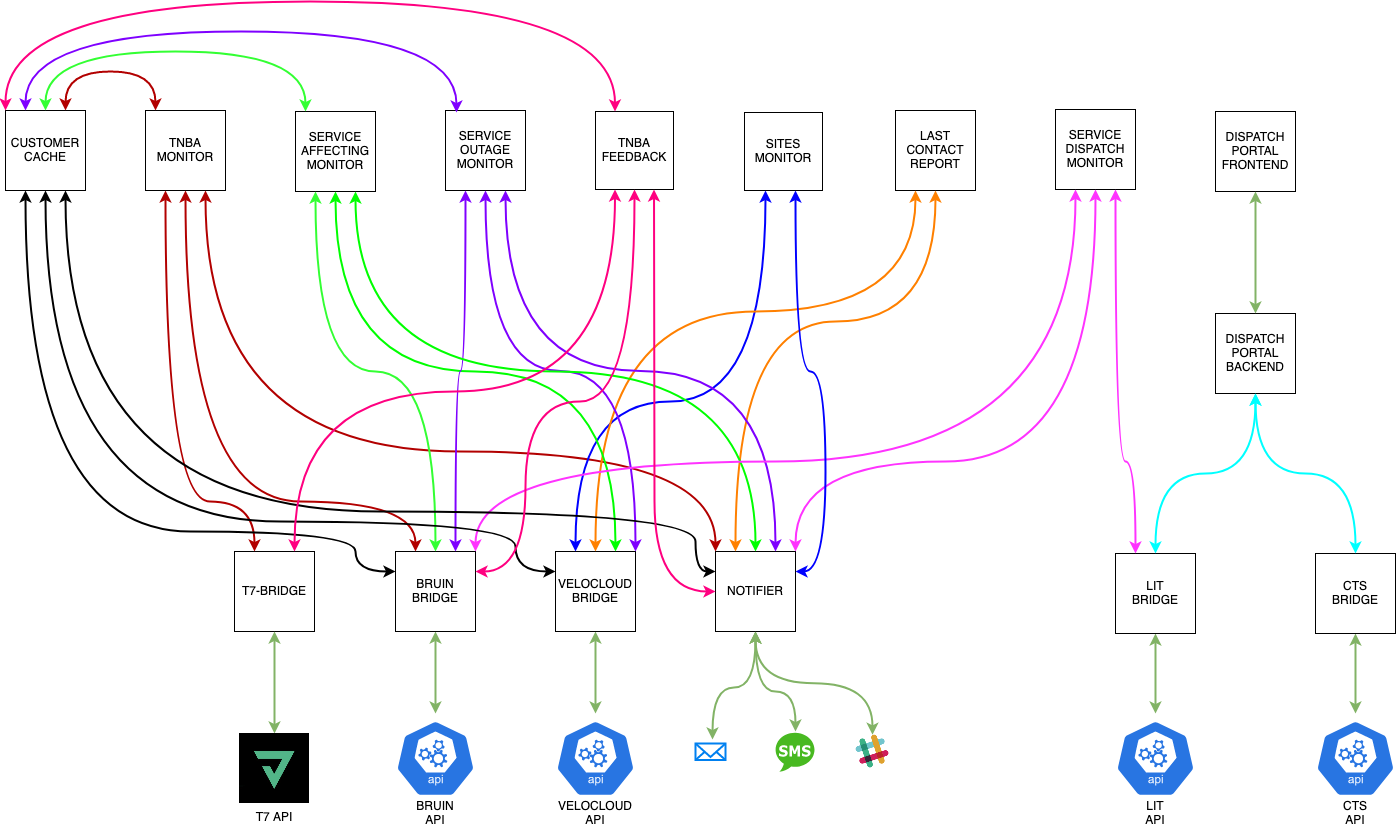
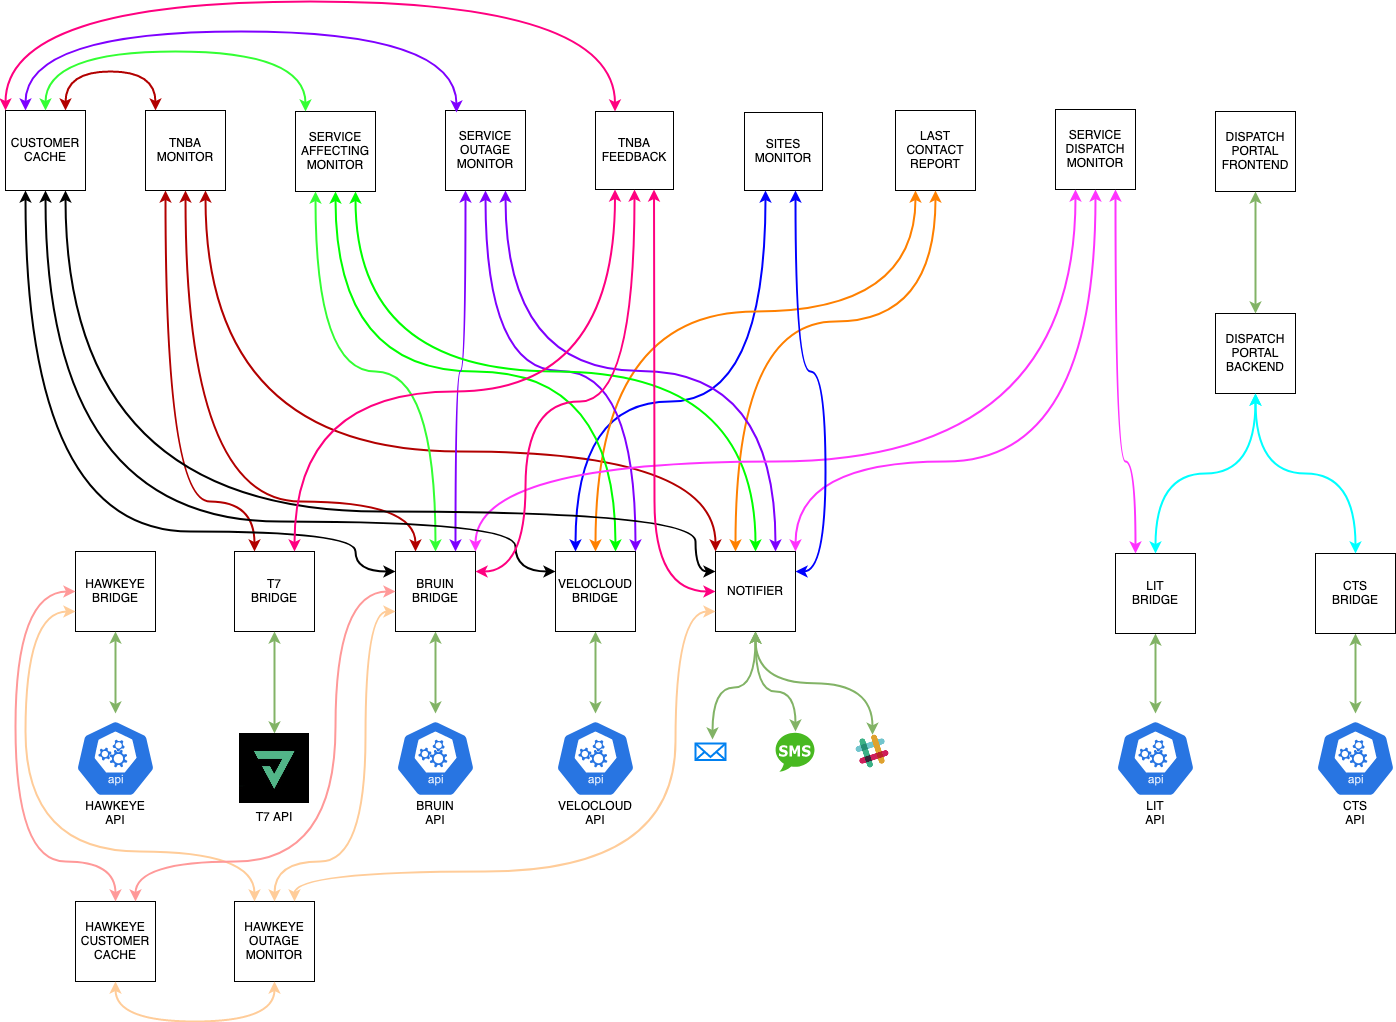
[docs] Add docs for Hawkeye-related services

diff --git a/docs/SYSTEM_OVERVIEW.md b/docs/SYSTEM_OVERVIEW.md
@@ -40,6 +40,8 @@ There are two types of microservices showed in the diagram above depending on th
 
     * *velocloud-bridge*
 
+    * *hawkeye-bridge*
+
     * *bruin-bridge*
 
     * *t7-bridge*
@@ -58,6 +60,8 @@ There are two types of microservices showed in the diagram above depending on th
 
     * *service-outage-monitor*
 
+    * *hawkeye-outage-monitor*
+
     * *sites-monitor*
 
     * *tnba-monitor*
@@ -65,6 +69,8 @@ There are two types of microservices showed in the diagram above depending on th
   * Those that take the role of both requester and replier in the context of NATS. These services can be considered a mixture between use cases and capabilities:
   
     * *customer-cache*
+
+    * *hawkeye-customer-cache*
 
   > All microservices that communicate with NATS can also communicate with the Redis cluster. This is needed
   to bypass the limit size that NATS enforces for all the messages it receives (1MB).
@@ -139,6 +145,44 @@ When another microservice requests velocloud data, it will be in charge of makin
 The following [diagram](https://www.draw.io/#G1bn-S0EvBXgnLW22Zwvdx4MJVx0hauXdQ) shows the dependencies or interactions of this microservice with the others, being in this case none, since it is in charge of one of the isolated microservices as explained above.
 
 ![IMAGE: velocloud-bridge_microservice_relationships](img/system_overview/capabilities/velocloud-bridge_microservice_relationships.png)
+
+#### Hawkeye-bridge microservice
+
+This microservice is in charge of making requests to the Hawkeye API, taking the role of replier in the context of NATS.
+
+When another microservice requests Hawkeye data, it will be in charge of making response messages to the same and never of request, that is to say, it will always be a producer within a NATS topic and never a consumer.
+
+The following [diagram](https://www.draw.io/#G1ki13-NoKadfUai12FWQCFebwkNGoKGFo) shows the dependencies or interactions of this microservice with the others, being in this case none, since it is in charge of one of the isolated microservices as explained above.
+
+![IMAGE: hawkeye-bridge_microservice_relationships](img/system_overview/capabilities/hawkeye-bridge_microservice_relationships.png)
+
+#### Hawkeye-customer-cache microservice
+
+This microservice is in charge of crossing Bruin and Hawkeye data. More specifically, it focus on associating Bruin customers with Hawkeye devices.
+On the other hand, it also serves this information to the rest of services.
+
+This service is a special one, since it acts as a requester (to build and store caches) but also as a replier (to serve caches to services requesting them).
+
+The following [diagram](https://www.draw.io/#G1QLpox45cZE4PV3dxlZsnK5Gv1N6hQNvM) shows the dependencies or interactions of this microservice with the rest.
+
+![IMAGE: hawkeye-customer-cache_microservice_relationships](img/system_overview/mixed_services/hawkeye-customer-cache_microservice_relationships.png)
+
+From the point of view of services to the left of `hawkeye-customer-cache`, it plays the role of a replier as it answers to requests sent by them.
+
+From the point of view of services to the right of `hawkeye-customer-cache`, it plays the role of a requester as it asks for data to Hawkeye and Bruin to cross it.
+
+#### Hawkeye-outage-monitor microservice
+
+This service is responsible for resolving/unresolving outage tickets depending on the state of a Hawkeye device. It is triggered every 3 minutes.
+
+If a device is detected to be in outage state then it is scheduled for a recheck in the next 5 seconds. If the device is still in outage state, the system
+will try creating a new outage ticket. If Bruin reports back that an outage ticket with Resolved status exists already then it is unresolved; if not, a new outage ticket may have been created or an outage ticket with In Progress status may exist already, so no additional action
+will be taken.
+
+In case the device was detected to be healthy, the system looks for an open outage ticket for this device and resolves it in case it exists.
+
+In the following [diagram](https://www.draw.io/#G1ZAQSFthTrg4w2RGuzINR03LNlT54aOpZ) it's possible see the relationship of this microservice with the others.
+![IMAGE: hawkeye-outage-monitor_microservice_relationships](img/system_overview/use_cases/hawkeye-outage-monitor_microservice_relationships.png)
 
 #### Last-contact-report microservice
 

diff --git a/hawkeye-outage-monitor/README.md b/hawkeye-outage-monitor/README.md
@@ -5,15 +5,44 @@
   * [Running in docker-compose](#running-in-docker-compose)
 
 # Description
-The objective of `hawkeye-outage-monitor` is ... [TODO]
+The objective of `hawkeye-outage-monitor` is to detect devices that remains faulty for a period of time and create outage tickets in Bruin
+for them in that case. If these devices are already under an existing outage ticket then the system makes a choice to either resolve
+or unresolve it depending on the outage state of the device.
+
+> Bear in mind that the whole outage monitoring process runs every 3 minutes.
 
 # Work Flow
-[TODO]
+#### First traversal of devices
+1. Get the cache of customers for Hawkeye devices
+2. Get the list of probes from Hawkeye
+3. Filter probes related to those devices in the cache of customers
+4. Distinguish devices in outage state from healthy devices
+5. Schedule a re-check job for all the devices in outage state so its state is checked again in a few moments
+6. For every healthy device:
+   1. Attempt to autoresolve the outage ticket it is under, in case it exists.
+
+#### Re-checking a device that was in outage state
+1. Get the list of probes from Hawkeye
+2. Filter probes related to the devices in the list of devices that were scheduled for re-check
+   in the previous step of the process.
+3. Distinguish devices in outage state from healthy devices
+4. For every device in outage state:
+   1. If the working environment is `production` and there is no outage
+      ticket created for this device, then attempt to create an outage ticket.
+
+      * If Bruin returns a HTTP response with a 200 status code then it means the ticket was created.
+      * If Bruin returns a HTTP response with a 409 status code then it means there is an existing outage ticket with
+       In Progress state and hence no additional action is taken.
+      * If Bruin returns a HTTP response with a 471 status code then it means there is an existing outage ticket with
+       Resolved state and hence the process will attempt to unresolve it.
+6. For every healthy device:
+   1. Attempt to autoresolve the outage ticket it is under, in case it exists.
 
 # Capabilities used
+- [Hawkeye customer cache](../hawkeye-customer-cache/README.md)
 - [Hawkeye bridge](../hawkeye-bridge/README.md)
 - [Bruin bridge](../bruin-bridge/README.md)
 - [Notifier](../notifier/README.md)
 
 # Running in docker-compose
-`docker-compose up --build redis hawkeye-bridge bruin-bridge notifier nats-server hawkeye-outage-monitor`
+`docker-compose up --build redis hawkeye-bridge bruin-bridge notifier nats-server hawkeye-customer-cache hawkeye-outage-monitor`

diff --git a/docs/PIPELINES.md b/docs/PIPELINES.md
@@ -189,6 +189,7 @@ In this stage there are two jobs:
      - `prometheus`
      - `t7-bridge`
      - `velocloud-bridge` 
+     - `hawkeye-bridge`
 
      Once created, the script used for NATS is launched through `null_resource` to check that the task instances for each of these ECS services were created successfully and are in `RUNNING` and `HEALTHY` status.
 
@@ -196,6 +197,8 @@ In this stage there are two jobs:
     
      - `customer-cache`
      - `dispatch-portal-backend`
+     - `hawkeye-customer-cache`
+     - `hawkeye-outage-monitor`
      - `last-contact-report`
      - `lumin-billing-report`
      - `service-affecting-monitor`
@@ -222,6 +225,7 @@ In this stage there are two jobs:
                          null_resource.cts-bridge-healthcheck,
                          null_resource.lit-bridge-healthcheck,
                          null_resource.velocloud-bridge-healthcheck,
+                         null_resource.hawkeye-bridge-healthcheck,
                          null_resource.t7-bridge-healthcheck,
                          null_resource.notifier-healthcheck,
                          null_resource.metrics-prometheus-healthcheck ]
@@ -246,6 +250,7 @@ In this stage there are two jobs:
                          null_resource.cts-bridge-healthcheck,
                          null_resource.lit-bridge-healthcheck,
                          null_resource.velocloud-bridge-healthcheck,
+                         null_resource.hawkeye-bridge-healthcheck,
                          null_resource.t7-bridge-healthcheck,
                          null_resource.notifier-healthcheck,
                          null_resource.metrics-prometheus-healthcheck,

diff --git a/ci-utils/papertrail-provisioning/README.md b/ci-utils/papertrail-provisioning/README.md
@@ -55,8 +55,16 @@ Below is the configuration of the `PAPERTRAIL_PROVISIONING` element mentioned in
                     "search_name": f"[dispatch-portal-backend] - logs"
                 },
                 {
+                    "query": f"hawkeye-bridge AND {ENVIRONMENT_NAME} AND {BUILD_NUMBER}",
+                    "search_name": f"[hawkeye-bridge] - logs"
+                },
+                {
                     "query": f"hawkeye-customer-cache AND {ENVIRONMENT_NAME} AND {BUILD_NUMBER}",
                     "search_name": f"[hawkeye-customer-cache] - logs"
+                },
+                {
+                    "query": f"hawkeye-outage-monitor AND {ENVIRONMENT_NAME} AND {BUILD_NUMBER}",
+                    "search_name": f"[hawkeye-outage-monitor] - logs"
                 },
                 {
                     "query": f"last-contact-report AND {ENVIRONMENT_ID} AND <BUILD_NUMBER>",
